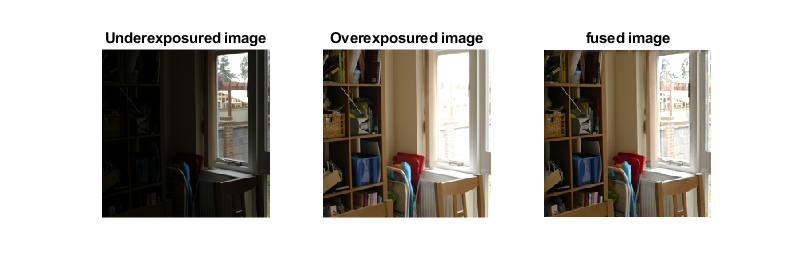
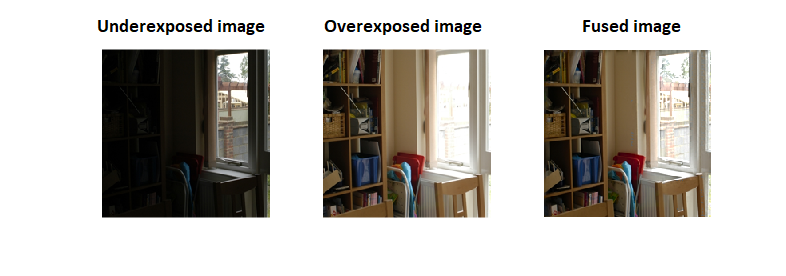
fixed typo

Changed region(s): [[0.1221, 0.058, 0.3359, 0.1739], [0.3969, 0.058, 0.6107, 0.1739], [0.7328, 0.058, 0.8855, 0.1739]]

diff --git a/demos/Demo_Multi_Exposure_Fusion.m b/demos/Demo_Multi_Exposure_Fusion.m
@@ -128,6 +128,6 @@ ours_lab(:,:,3) = (A{1}>=(A{2}+epsilon)).*double(I_lab{1}(:,:,3))+(A{1}<(A{2}+ep
 %%
 
 figure; 
-subplot(1, 3,1);  imshow(uint8(I_org{1})); title('Underexposured image'); axis off
-subplot(1, 3,2); imshow(uint8(I_org{2})); title('Overexposured image'); axis off
+subplot(1, 3,1);  imshow(uint8(I_org{1})); title('Underexposed image'); axis off
+subplot(1, 3,2); imshow(uint8(I_org{2})); title('Overexposed image'); axis off
 subplot(1, 3,3); imshow(uint8(lab2rgb(ours_lab)));  title('fused image'); axis off
